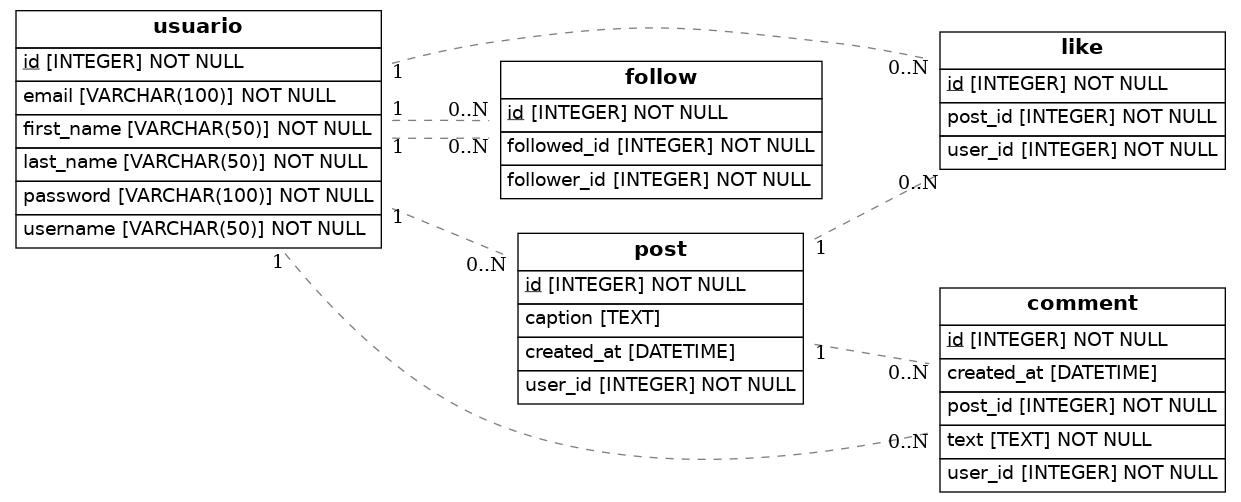
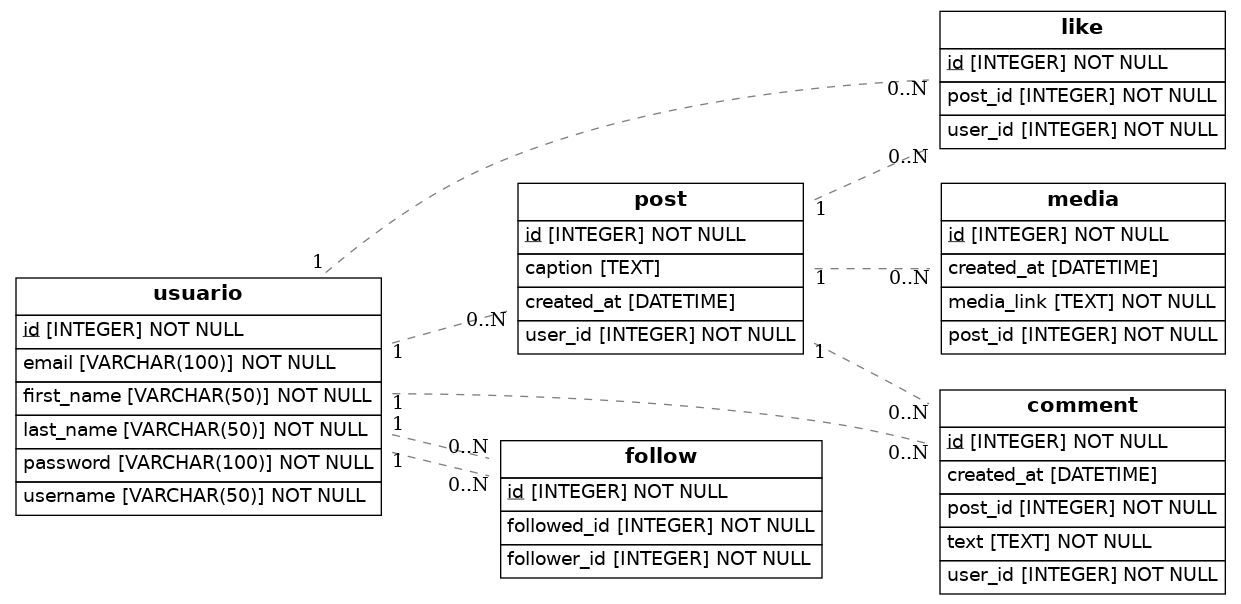
Se agrego la clase media

Changed region(s): [[0.0, 0.0, 1.0, 0.9861], [0.3062, 0.1195, 0.3368, 0.1494]]

diff --git a/src/models.py b/src/models.py
@@ -31,8 +31,18 @@ class Post(Base):
     created_at = Column(DateTime, default=datetime.now())
     
     usuario = relationship('Usuario', back_populates='posts')
+    media = relationship('Media', back_populates='posts')
     comments = relationship('Comment', back_populates='post')
     likes = relationship('Like', back_populates='post')
+
+class Media(Base):
+    __tablename__ = 'media'
+    id = Column(Integer, primary_key=True)
+    post_id = Column(Integer, ForeignKey('post.id'), nullable=False)
+    media_link = Column(Text, unique=True, nullable=False)
+    created_at = Column(DateTime, default=datetime.now())
+    
+    post = relationship('Post', back_populates='media')
 
 class Follow(Base):
     __tablename__ = 'follow'
